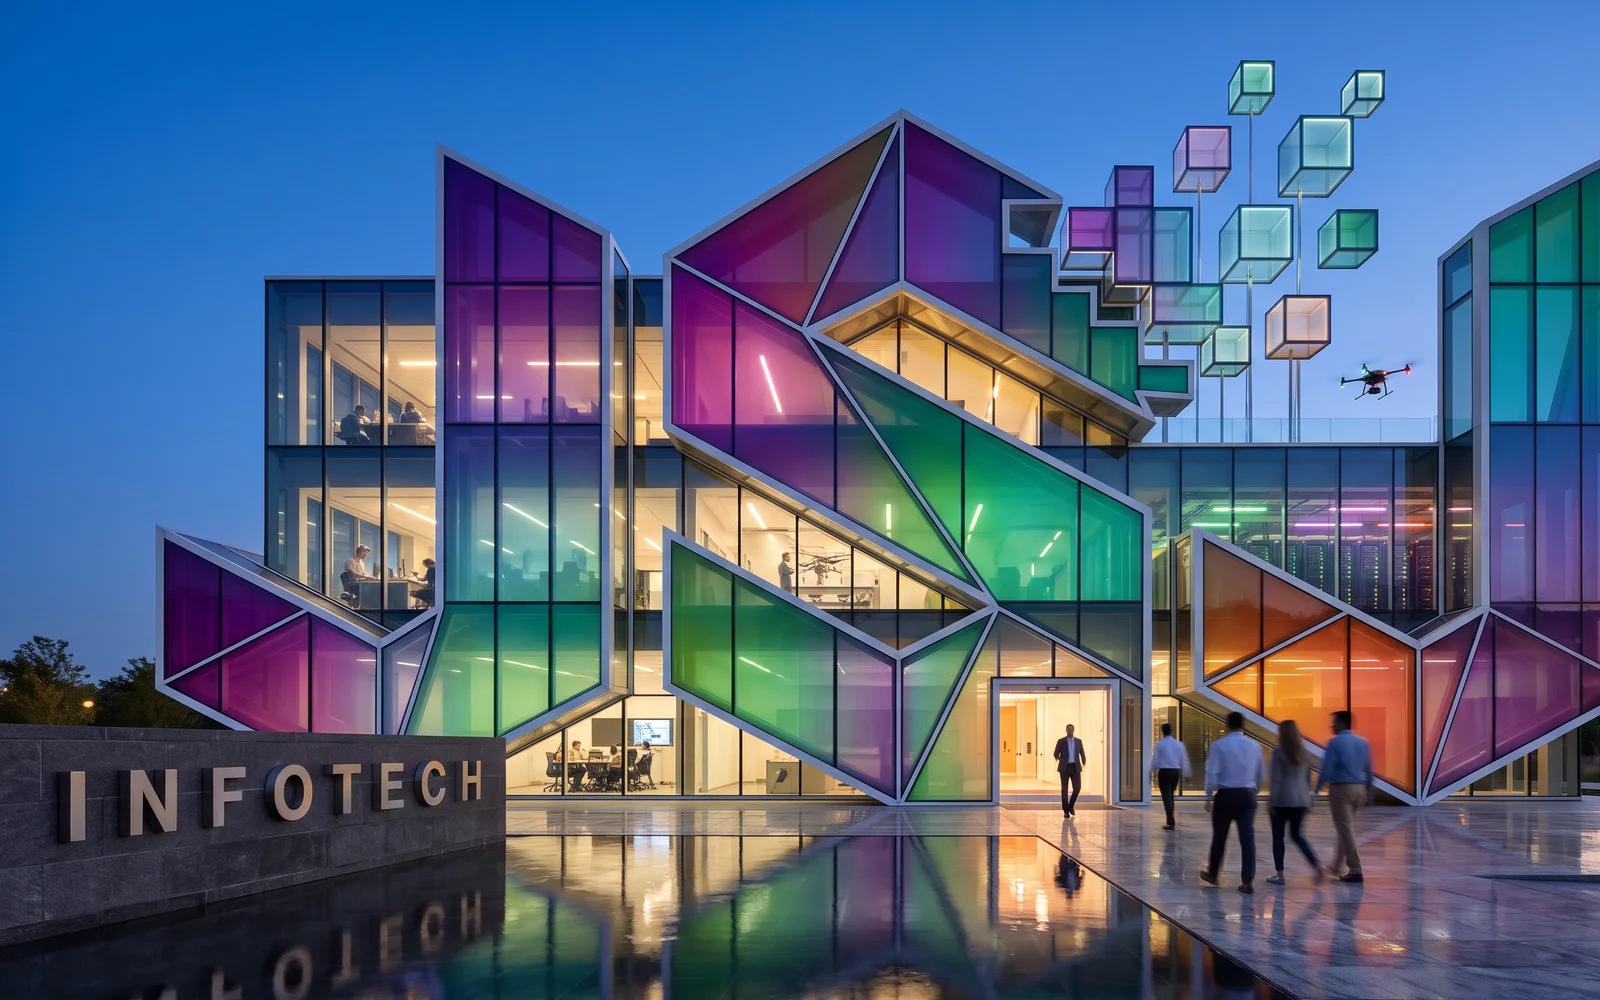
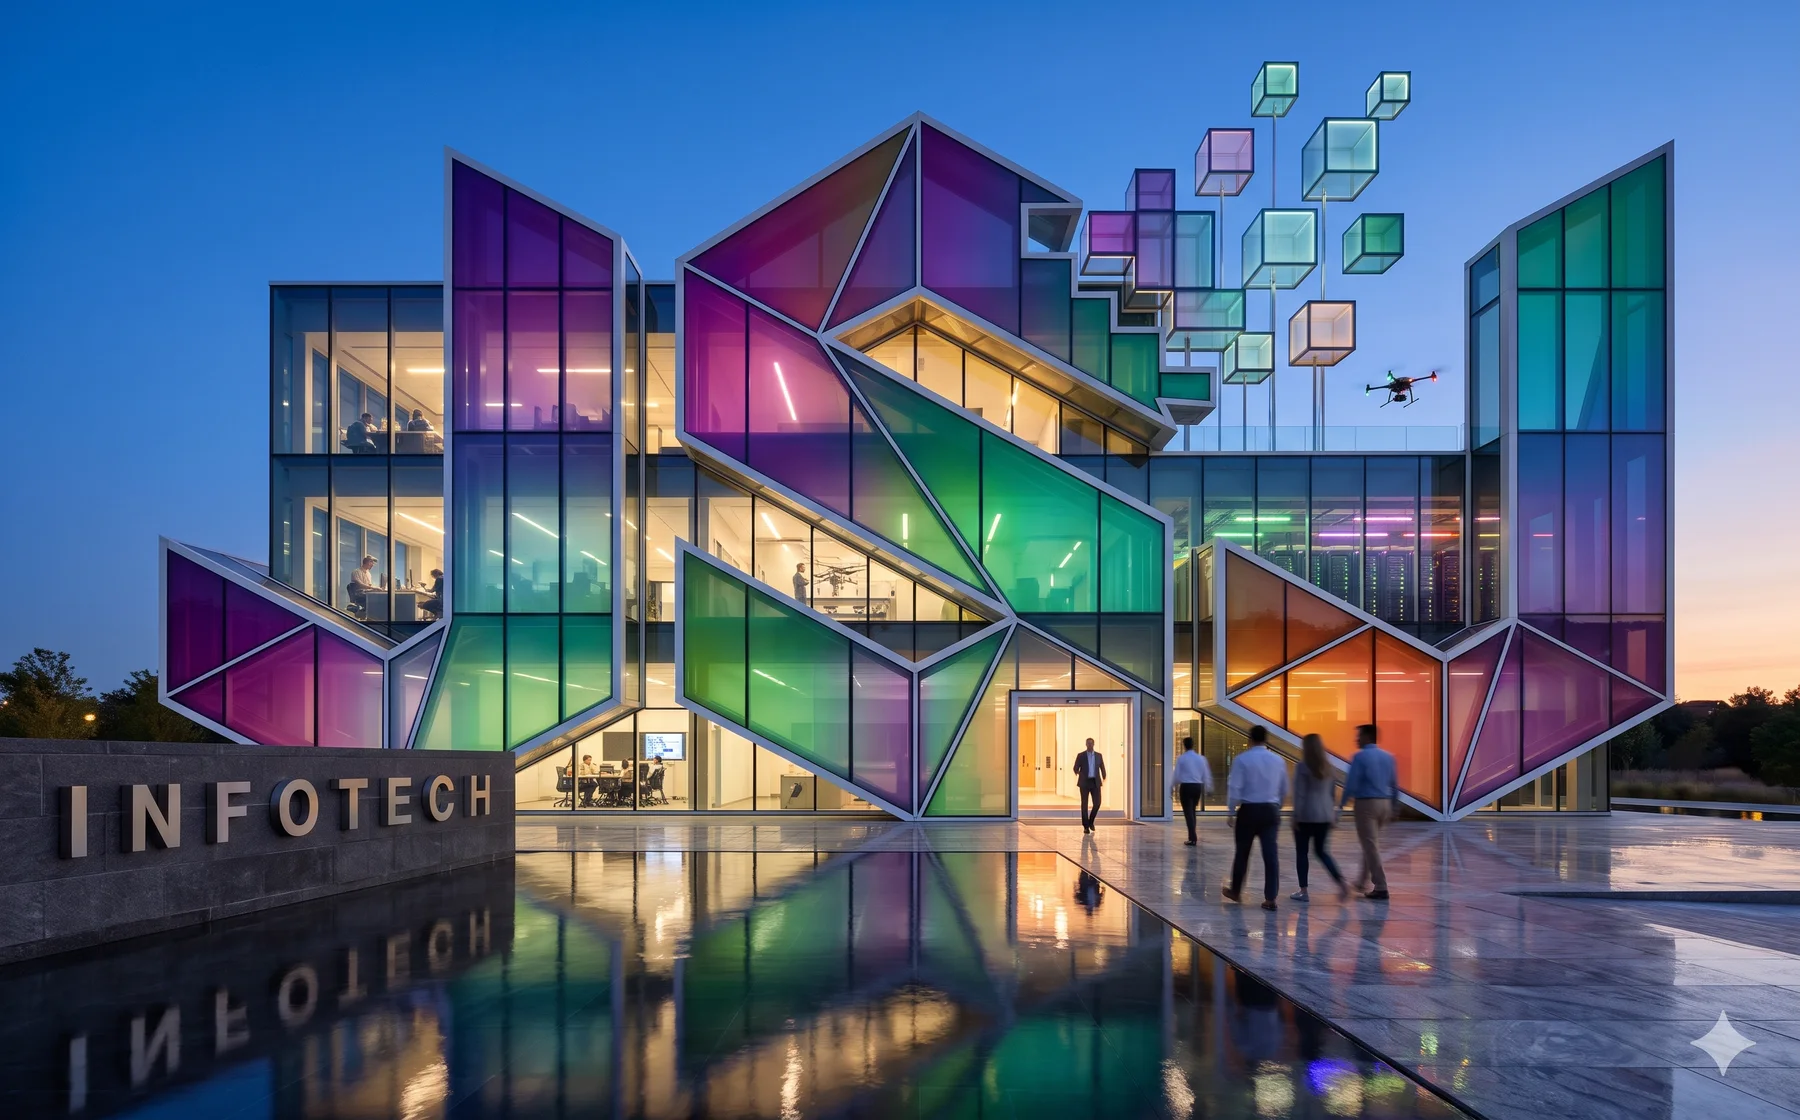
feat(about): full uncropped HQ image, wider image column

diff --git a/web/src/app/page.tsx b/web/src/app/page.tsx
@@ -45,7 +45,7 @@ export default function Home() {
 
       {/* About: copy left, real photos right */}
       <section className="section-y" aria-labelledby="about-h">
-        <div className="container-x grid items-center gap-12 lg:grid-cols-2 lg:gap-20">
+        <div className="container-x grid items-center gap-12 lg:grid-cols-[1fr_1.4fr] lg:gap-16">
           <div>
             <Eyebrow>About JSJ INFOTECH</Eyebrow>
             <H2><span id="about-h">Technology and engineering for modern enterprise.</span></H2>
@@ -55,7 +55,7 @@ export default function Home() {
             <ArrowLink href="/about" className="mt-6">More about JSJ</ArrowLink>
           </div>
           <div className="relative">
-            <img src="/images/gen/company-overview.webp" alt="JSJ INFOTECH headquarters concept: a glass building shaped like the JSJ logo at dusk" loading="lazy" className="aspect-[16/10] w-full rounded-[28px] object-cover shadow-lg" />
+            <img src="/images/gen/company-overview.webp" alt="JSJ INFOTECH headquarters concept: a glass building shaped like the JSJ logo at dusk" loading="lazy" className="w-full rounded-[28px] shadow-lg" />
           </div>
         </div>
       </section>
